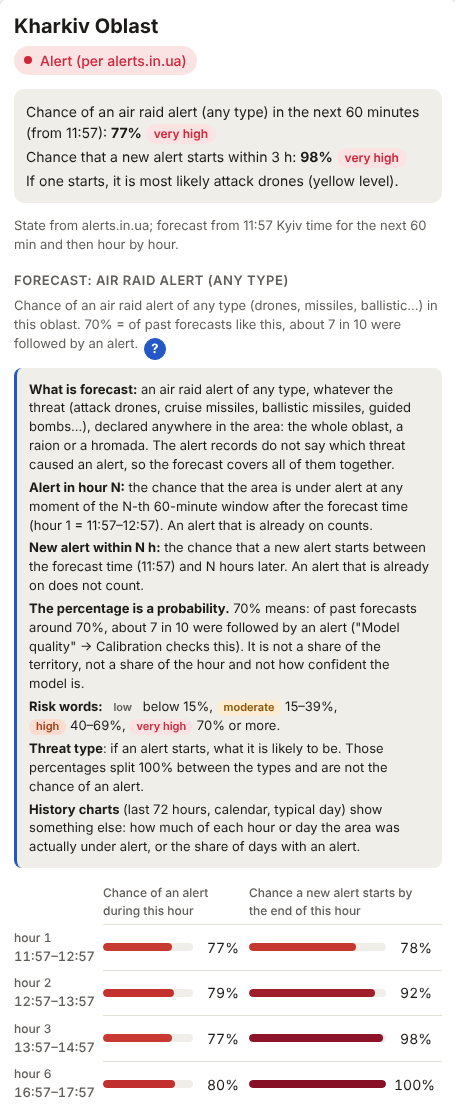
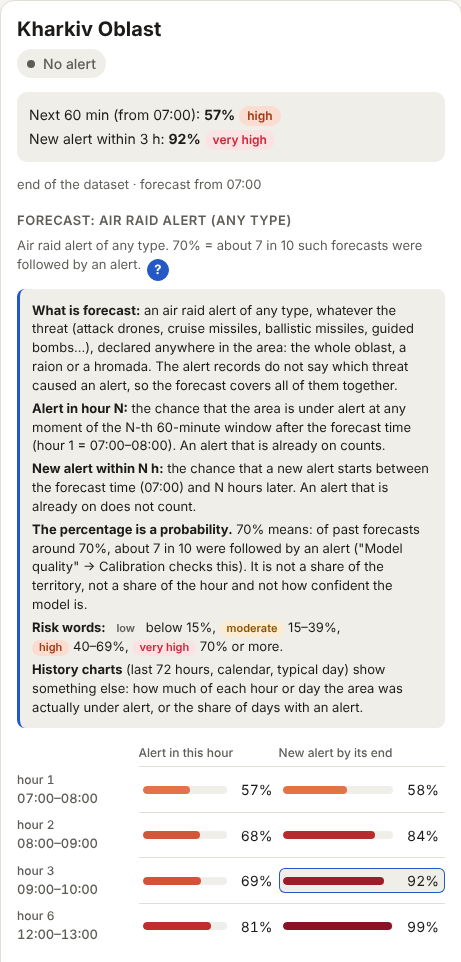
Why block polish, compact explanation rows, screenshots of the new UI
- Shorter driver labels so each fits one line at 360 px; wider label
  column; no doubled period after the test weeks.
- The store keeps explanation numbers as float32 (about 30 KB per run).
  Measured on the production history models plus the Telegram models:
  explaining a run adds about 0.5-0.7 s, writing it about 0.05 s.
- docs/img: map, oblast panel with the Why block and How it works at
  1280 px and 390 px (and the Why block in Ukrainian), refreshed
  explanation and ranking shots, from a local static build on the real
  dataset and Telegram archive; docs/web-app.md points to them.

Claude-Session: https://claude.ai/code/session_01QCRxwfAQtXkvgUx251ctkg

Changed region(s): [[0.0308, 0.0, 0.9846, 0.9979]]

diff --git a/src/airraid_app/static/i18n.js b/src/airraid_app/static/i18n.js
@@ -357,7 +357,6 @@ window.I18N = {
 
   "_section.explain": "Keys below: the Why-this-forecast block, the How-it-works page, the shorter map texts",
   "foot.model": "model trained {time}, data until {to}",
-  "legend.more": "What do the percentages mean?",
   "why.title": "Why this forecast",
   "why.help": "How to read this",
   "why.parent": "Why: {name} forecast",
@@ -383,10 +382,10 @@ window.I18N = {
   "why.noSignals": "No Telegram data for this moment.",
   "why.none": "No explanation for this forecast yet.",
   "why.pick": "Explain",
-  "grp.alert_now": "Alert now, its duration",
-  "grp.own_recent": "This oblast's recent alerts",
+  "grp.alert_now": "Alert now, duration",
+  "grp.own_recent": "Recent alerts here",
   "grp.other_oblasts": "Other oblasts now",
-  "grp.calendar": "Time of day, weekday, usual level",
+  "grp.calendar": "Time of day, usual level",
   "grp.tg_region": "Telegram: this oblast",
   "grp.tg_national": "Telegram: nationwide",
   "grp.news": "News",
@@ -417,7 +416,7 @@ window.I18N = {
   "meth.unclear": "within noise",
   "meth.worse": "worse",
   "meth.note": "Change of the forecast error (Brier score) with Telegram vs the history-only model on the same hours; minus = smaller errors. The Telegram model is used where it won on the validation month.",
-  "meth.period": "Test weeks: {a} – {b}.",
+  "meth.period": "Test weeks: {a} – {b}",
   "meth.now.ok": "Now: the Telegram archive is fresh, so the Telegram model serves where it is used.",
   "meth.now.off": "Telegram signals are off on this server: the history-only model serves everywhere.",
   "meth.inModel": "in the model",
@@ -793,7 +792,6 @@ window.I18N = {
 
   "_section.explain": "Ключі нижче: блок «Чому такий прогноз», сторінка «Як це працює», коротші тексти мапи",
   "foot.model": "модель навчена {time}, дані до {to}",
-  "legend.more": "Що означають відсотки?",
   "why.title": "Чому такий прогноз",
   "why.help": "Як це читати",
   "why.parent": "Чому: прогноз {name}",
@@ -819,12 +817,12 @@ window.I18N = {
   "why.noSignals": "Немає даних Telegram на цей момент.",
   "why.none": "Для цього прогнозу пояснення ще немає.",
   "why.pick": "Пояснити",
-  "grp.alert_now": "Тривога зараз, її тривалість",
-  "grp.own_recent": "Недавні тривоги цієї області",
+  "grp.alert_now": "Тривога зараз, тривалість",
+  "grp.own_recent": "Недавні тривоги тут",
   "grp.other_oblasts": "Інші області зараз",
-  "grp.calendar": "Година, день тижня, звичний рівень",
+  "grp.calendar": "Час доби, звичний рівень",
   "grp.tg_region": "Telegram: ця область",
-  "grp.tg_national": "Telegram: уся країна",
+  "grp.tg_national": "Telegram: країна",
   "grp.news": "Новини",
   "grp.other": "Інші входи",
   "sigThreat.drone": "дронами",
@@ -853,7 +851,7 @@ window.I18N = {
   "meth.unclear": "в межах шуму",
   "meth.worse": "гірше",
   "meth.note": "Зміна помилки прогнозу (Brier score) з Telegram проти моделі лише з історією на тих самих годинах; мінус = менші помилки. Модель з Telegram працює там, де виграла на місяці валідації.",
-  "meth.period": "Тестові тижні: {a} – {b}.",
+  "meth.period": "Тестові тижні: {a} – {b}",
   "meth.now.ok": "Зараз: архів Telegram свіжий, тож модель з Telegram працює там, де її обрано.",
   "meth.now.off": "Сигнали Telegram на цьому сервері вимкнено: усюди працює модель лише з історією.",
   "meth.inModel": "у моделі",

diff --git a/src/airraid_app/static/style.css b/src/airraid_app/static/style.css
@@ -382,8 +382,7 @@ html[lang="en"] [data-lang="uk"], html[lang="uk"] [data-lang="en"] { display: no
 .explain .nw { white-space: nowrap; }
 
 /* ---- explain branch: the "why this forecast" block, the How-it-works page, shorter map texts ---- */
-.summary { grid-template-columns: repeat(auto-fit, minmax(170px, 1fr)); }
-@media (max-width: 600px) { .summary .stat:last-child:nth-child(odd) { grid-column: 1 / -1; } }
+@media (max-width: 600px) { #summary .stat:last-child:nth-child(odd) { grid-column: 1 / -1; } }
 .legend .explain { flex-basis: 100%; margin: 4px 0 0; }
 .legend .info-btn { vertical-align: -6px; }
 
@@ -404,7 +403,7 @@ html[lang="en"] [data-lang="uk"], html[lang="uk"] [data-lang="en"] { display: no
 .why-tg .dd.down { color: var(--accent); }
 .why-dh { display: flex; justify-content: space-between; align-items: baseline; gap: 2px 10px; flex-wrap: wrap; margin: 10px 0 4px; }
 .why-dh .k { font-size: 13px; font-weight: 650; }
-.why-axis, .why-bars li { display: grid; grid-template-columns: minmax(0, 1.15fr) minmax(0, 1fr) 40px; gap: 8px; align-items: center; }
+.why-axis, .why-bars li { display: grid; grid-template-columns: minmax(0, 1.35fr) minmax(0, 1fr) 38px; gap: 8px; align-items: center; }
 .why-axis { font-size: 11px; margin-bottom: 2px; }
 .why-axis .ax { display: flex; justify-content: space-between; }
 .why-bars { list-style: none; margin: 0; padding: 0; }

diff --git a/src/airraid/explain.py b/src/airraid/explain.py
@@ -191,18 +191,18 @@ def frame(parts: list[pd.DataFrame], origin: pd.Timestamp) -> pd.DataFrame:
     df = pd.concat(parts, ignore_index=True)
     df.insert(0, "origin", origin)
     num = ["p", "p_hist", "base", *(f"g_{g}" for g in GROUPS)]
-    df[num] = df[num].astype(np.float64).round(4)
+    df[num] = df[num].astype(np.float64).round(4).astype(np.float32)  # ~30 KB per run in the store
     df[list(SIGNAL_COLS)] = df[list(SIGNAL_COLS)].astype(np.float32)
     return df
 
 
 # ---------------------------------------------------------------------- serving
-def _num(v) -> float | None:
+def _num(v, nd: int | None = None) -> float | None:
     try:
         v = float(v)
     except (TypeError, ValueError):
         return None
-    return v if math.isfinite(v) else None
+    return (round(v, nd) if nd is not None else v) if math.isfinite(v) else None
 
 
 def signals(row) -> list[dict]:
@@ -264,8 +264,8 @@ def payload(rows: pd.DataFrame) -> dict | None:
         groups = {g: round(float(r[f"g_{g}"]), 4) for g in GROUPS
                   if f"g_{g}" in r and _num(r[f"g_{g}"]) is not None}
         items.setdefault(str(r["target"]), {})[str(int(r["horizon"]))] = {
-            "model": r["model"], "p": _num(r["p"]), "p_hist": _num(r["p_hist"]), "text": r["text"],
-            "base": _num(r["base"]), "groups": groups,
+            "model": r["model"], "p": _num(r["p"], 4), "p_hist": _num(r["p_hist"], 4), "text": r["text"],
+            "base": _num(r["base"], 4), "groups": groups,
         }
     first = rows.iloc[0].to_dict()
     return {"items": items, "signals": signals(first), "has_text": _num(first.get("tg_reg_any_180m")) is not None}

diff --git a/README.md b/README.md
@@ -426,6 +426,8 @@ live-data/<kind>/<YYYY-MM-DD>/<stamp>-<hash>.parquet   one immutable file per ap
   forecasts       origin, issued_at, region, target, horizon, p, clim, active_now,
                   trained_until, hist_end, git_sha, live
   verification    scored forecasts, verified_at, label_source
+  explanations    why each forecast (src/airraid/explain.py), issued_at as in forecasts: served
+                  model, p, history-only p_hist, reason, base + grouped log-odds drivers, signal counts
 live-data/_state/history.json   collector bookkeeping (resume, If-Modified-Since)
 live-data/_state/pipeline.json  the last pipeline run: time, step timings, data ends (= the site's api/status.json)
 ```
